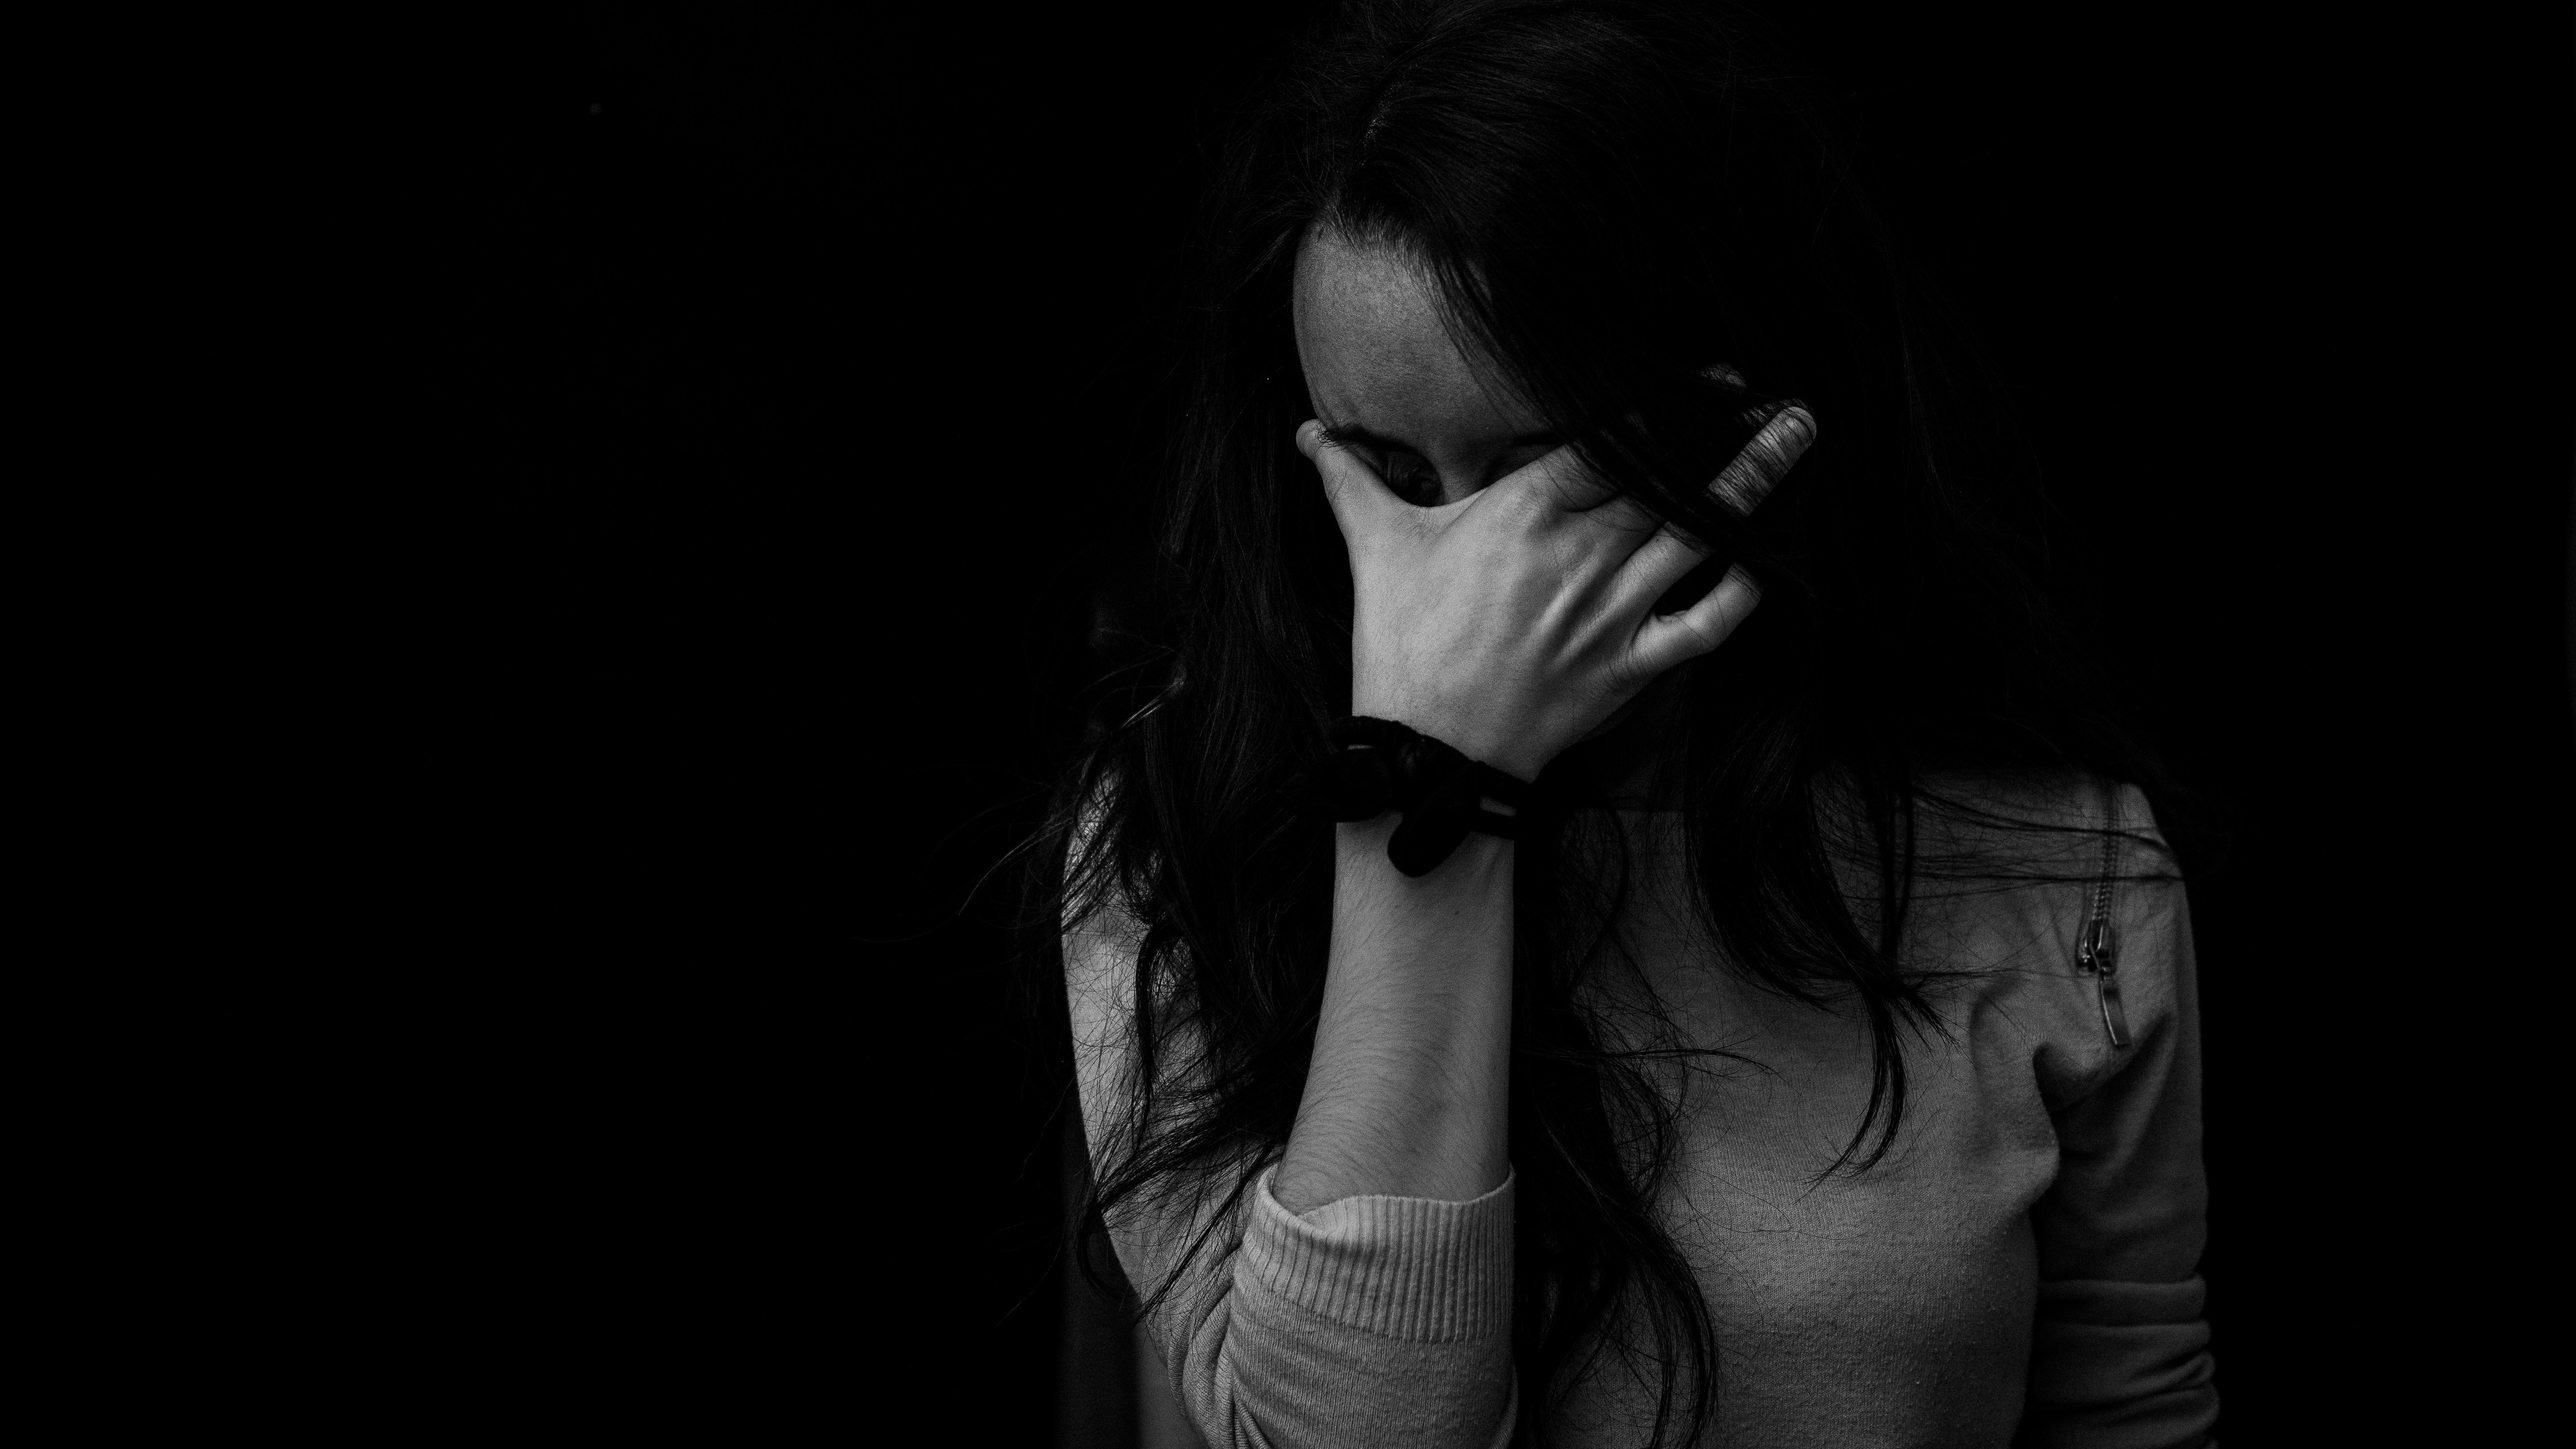
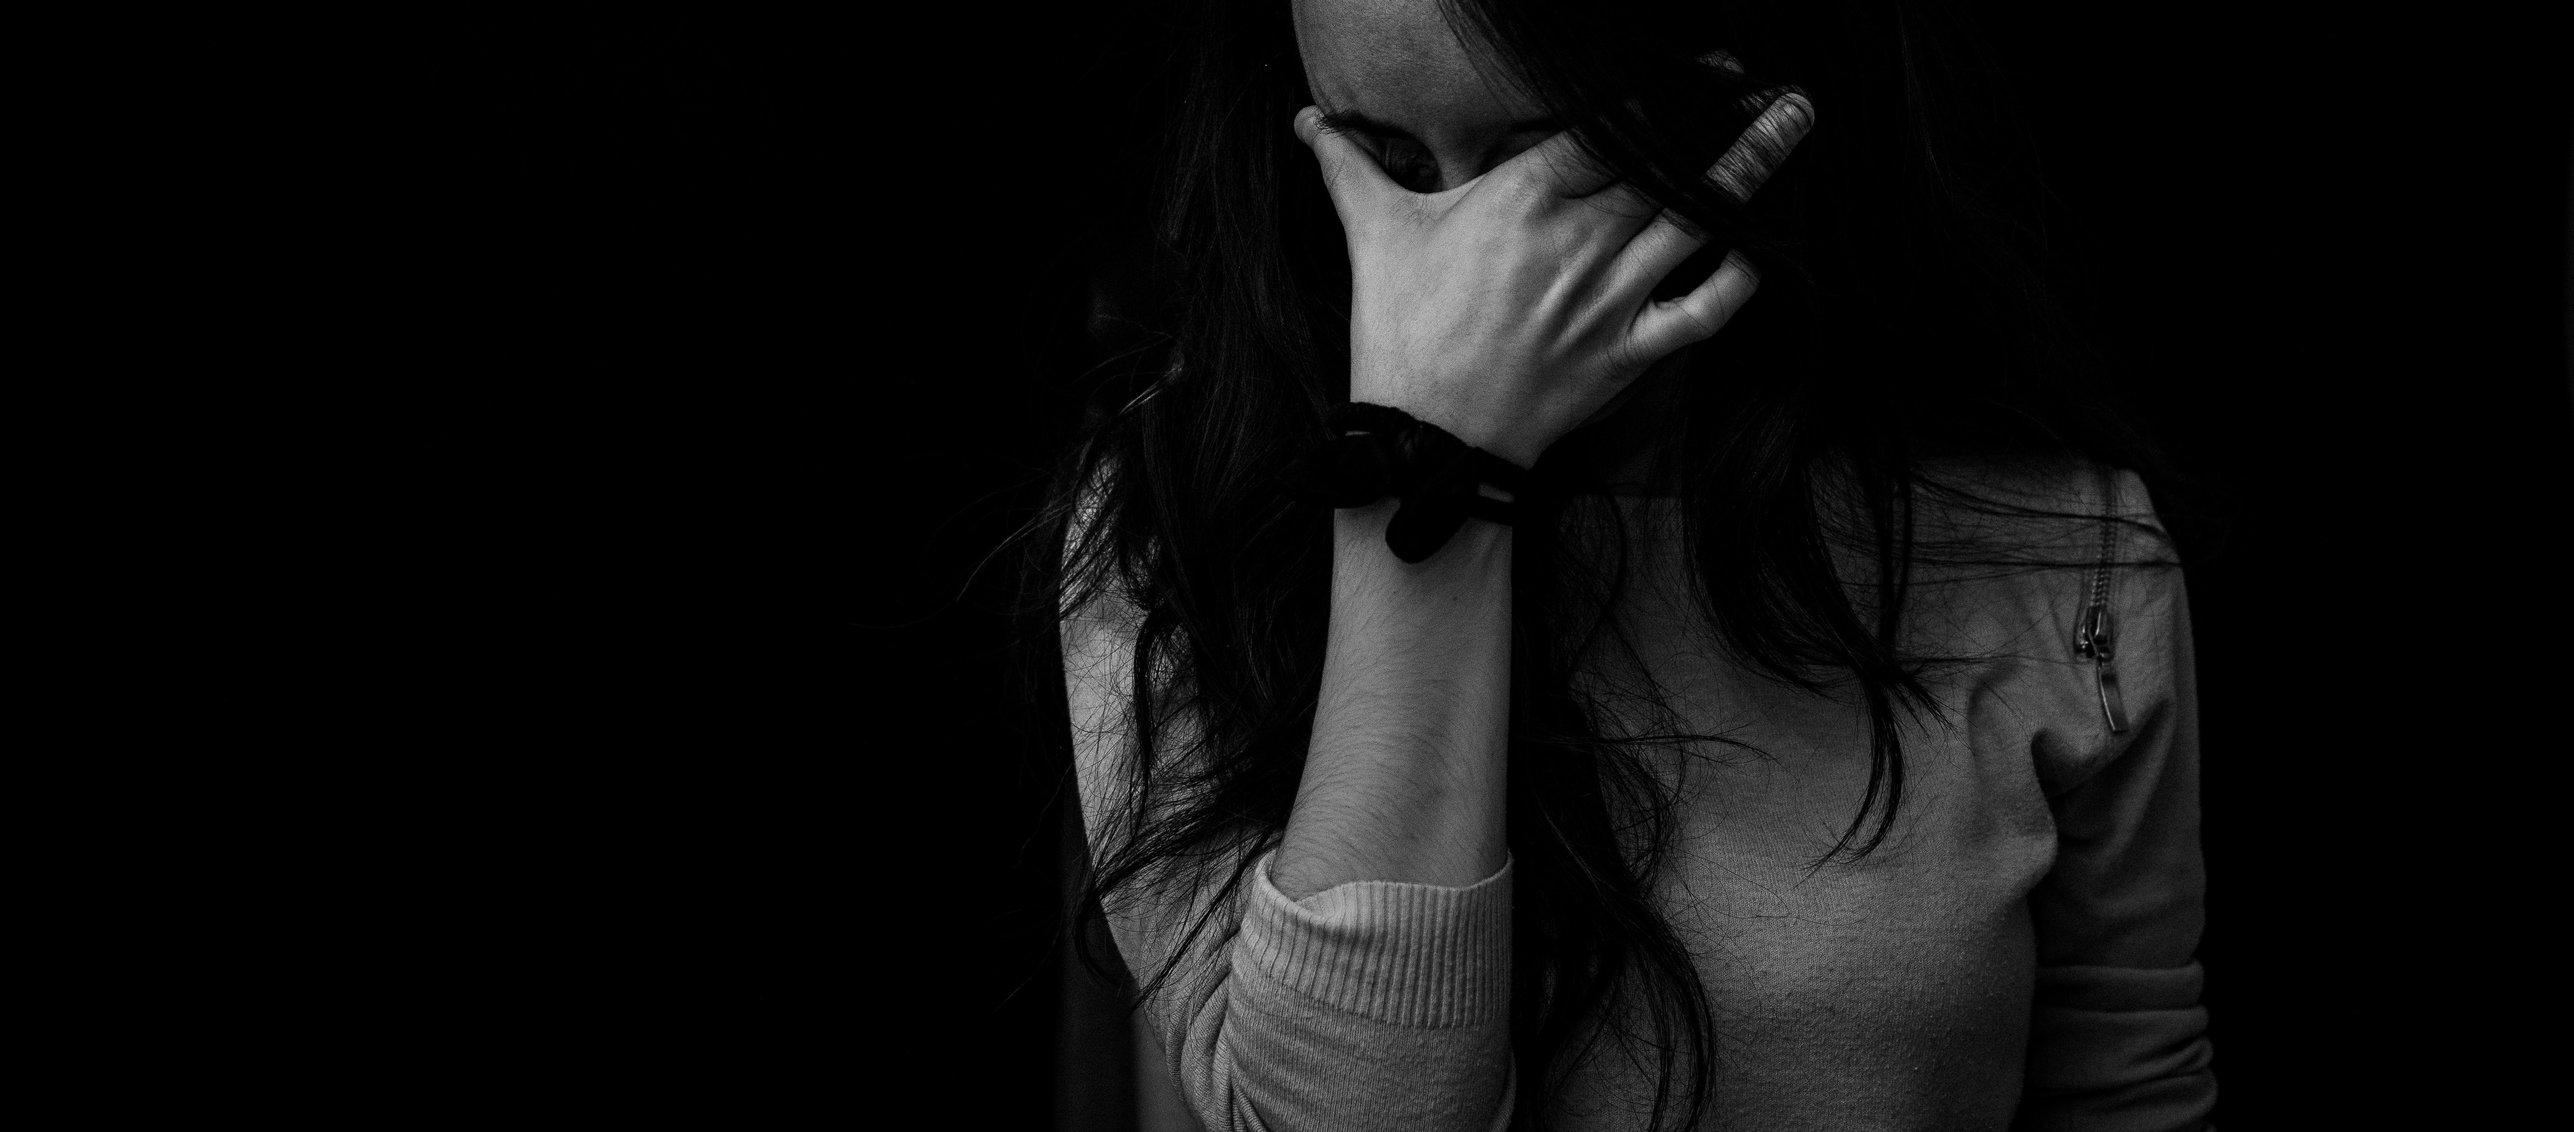
changed picture to portfolio page, reformatting jumbotron text

Changed region(s): [[0.4043, 0.0, 0.8707, 1.0], [0.8085, 0.8733, 0.8707, 0.9668]]

diff --git a/index.html b/index.html
@@ -39,16 +39,16 @@
     <div class="col-md-12 mt-5">
       <div class="jumbotron jumbotron-fluid">
         <div class="container">
-          <h1 class="display-4 text-white ">Philip Prewitt, LPC</h1>
-          <p class="lead text-white ">Working to improve access to mental health care.</p>
+          <h1 class="display-4 text-white"><strong>Philip Prewitt</strong></h1>
+          <h3 class="lead text-white">Licensed Professional Counselor</h3>
+          <p class="text-white ">Working to improve access to mental health care.</p>
         </div>
       </div>
     </div>
     <div class="row">
       <div class="col-md-4">
         <div class="card mb-3 bg-light border-0">
-          
-            <img src="https://i.imgur.com/eo9rfT4.jpg" class="card-img-top" alt="..." >
+            <img src="abstract-business-code-coder-270348.jpg" class="card-img-top" alt="..." >
             <div class="card-body">
               <h5 class="card-title">Portfolio</h5>
               <p class="card-text">This is a portfolio of my digital projects, updated as projects are completed.</p>
@@ -81,7 +81,7 @@
     <div class="row">
       <div class="col-md-12">
         <div class="card-footer text-white text-center">
-         <p> &copy; 2020 Philip Prewitt philip.prewitt@gmail.com</p>
+         <p> &copy; 2020 Philip Prewitt, LPC philip.prewitt@gmail.com</p>
         </div>
       </div>
     </div>
